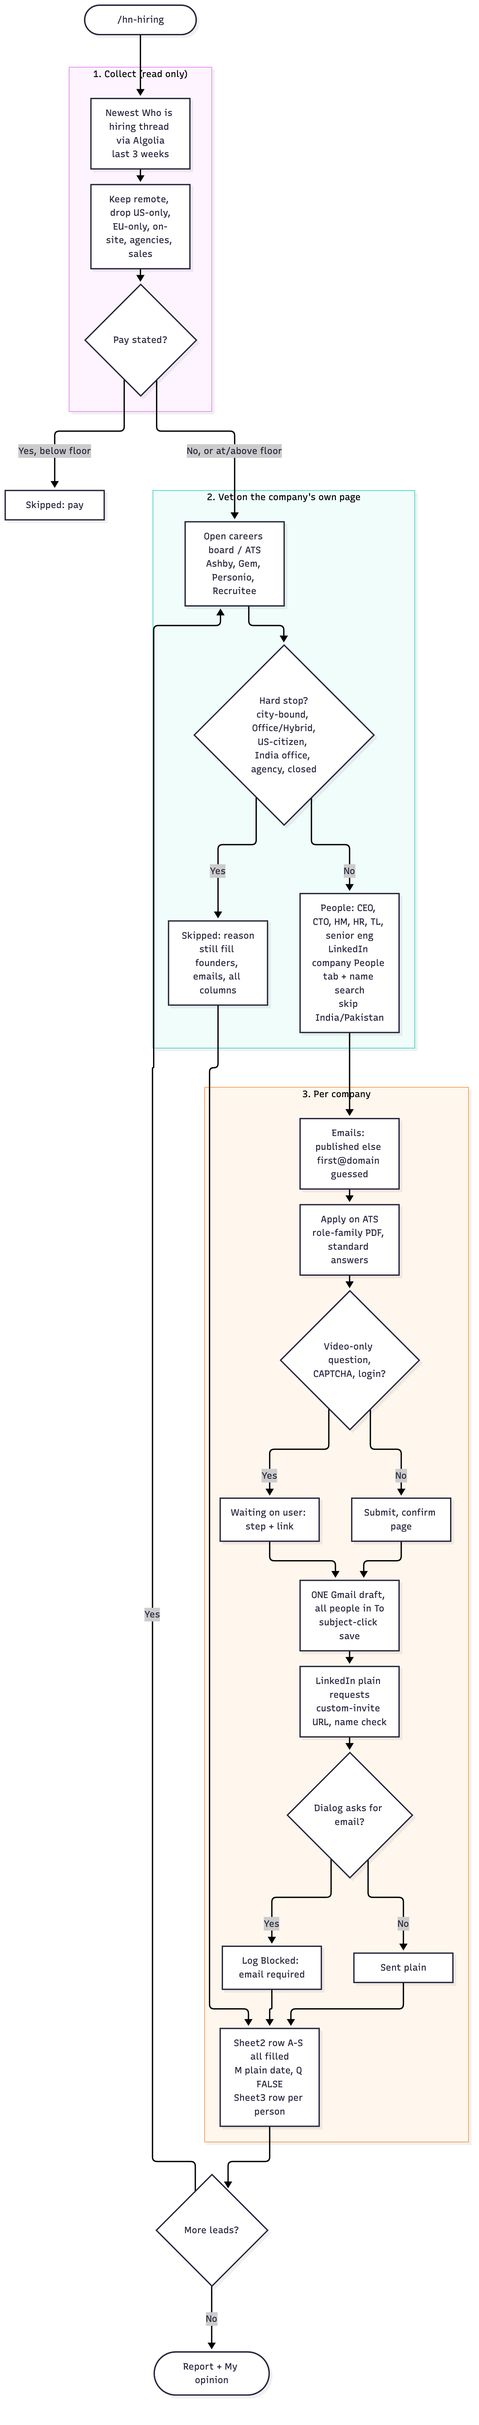
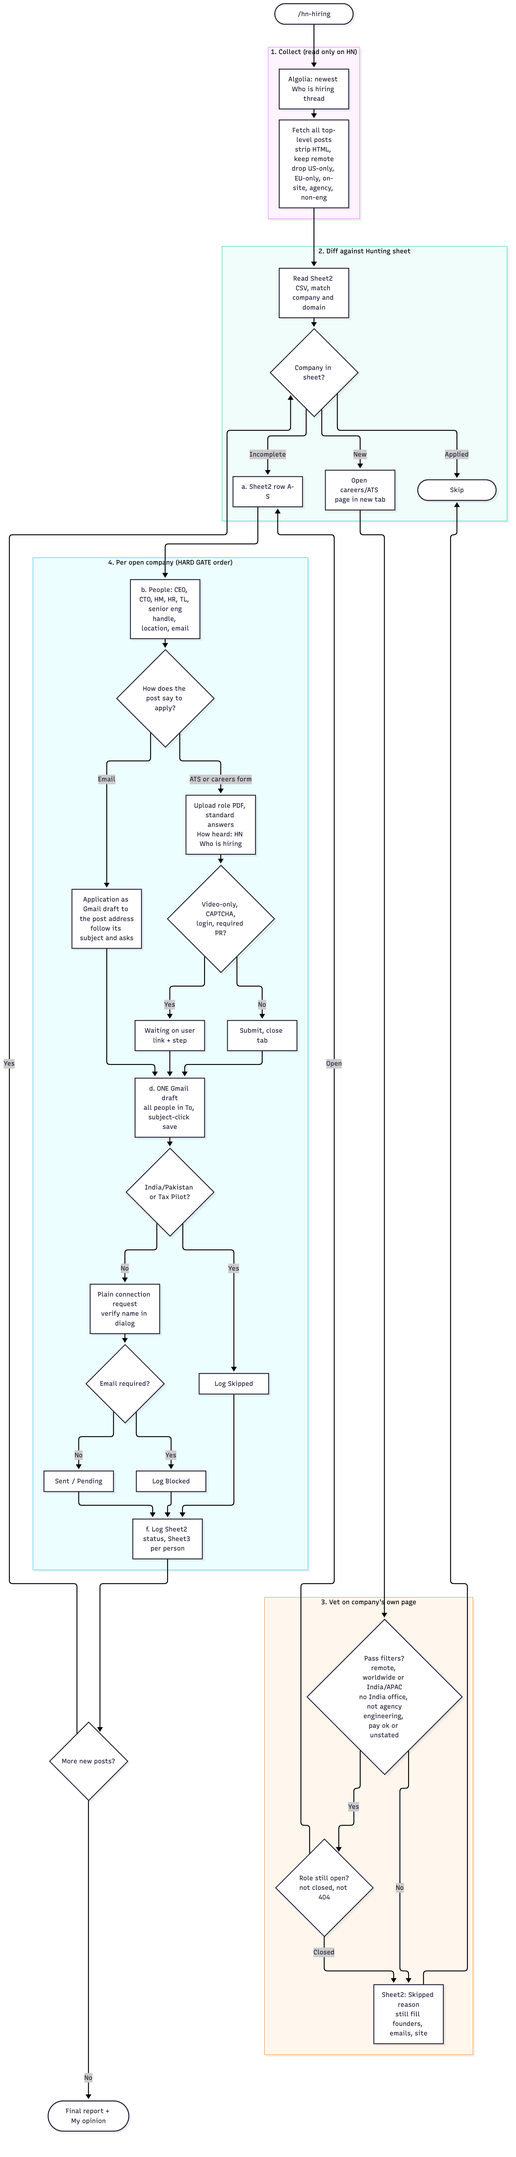
HN skill v3: restructure like yc-jobs, define every Sheet2/Sheet3 column, LinkedIn outreach, email safety, bot-check gates; README flow definition
Claude-Session: https://claude.ai/code/session_0136J2VcEN4nByAwo4xCbtUu

diff --git a/claude-commands/hn-hiring.md b/claude-commands/hn-hiring.md
@@ -1,47 +1,73 @@
 ---
-description: Find leads from Hacker News "Ask HN: Who is hiring?" (last 3 weeks by default), show details, then reach the posters by email first, HN reply second, ATS form third, LinkedIn last. Gmail drafts only.
-argument-hint: [weeks back, default 3] [month thread, default latest] [company names to take through the full flow]
+description: HN job flow. Start from the newest "Ask HN: Who is hiring?" thread, diff every post against the Hunting sheet, vet only the NEW ones on the company's own page, then apply there, log the sheet row (A-S), make ONE Gmail draft, and do LinkedIn outreach to CEO, CTO, HM, HR and TL. One company at a time, no stopping until the list is done.
+argument-hint: [optional: max new companies this run, default all] [month thread, default newest]
 ---
 
-Read `CLAUDE.md` first (job filter, size cap 200, contacts rules, Gmail safety, sheet columns). Input: $ARGUMENTS.
+Read `CLAUDE.md` first (it holds every rule; this skill only sequences them). Input: $ARGUMENTS. Same shape as `/yc-jobs`; only the source differs.
 
-## 1. Find the posts (read only)
-1. Thread list: https://news.ycombinator.com/submitted?id=whoishiring (take the newest "Who is hiring?", not "Who wants to be hired?"). Also scan the previous month when the window crosses a month.
-2. Data: in an HN tab run `fetch('https://hn.algolia.com/api/v1/items/<thread id>')` (Algolia has every live top-level comment; the Firebase API returns the same posts, dead ones 404). Keep top-level comments with `created_at` inside the window (default 3 weeks), strip HTML.
-3. Filter: contains "remote"; drop US-only, US/Canada-only, EU/UK/LATAM-only, on-site/hybrid-only, India-based companies, agencies, commission-only, non-engineering (GTM, sales, iOS-only). Keep worldwide/anywhere/global/India/APAC/APJ and Asian-friendly time zones; flag time-zone-limited (AMER/EMEA) and "select countries" for a check.
-4. Apply the sheet rules: all engineer levels for HN leads (CLAUDE.md 2026-10-27; the 2026-10-24 senior-only rule does not apply here), size 1-200 (flag if unclear), pay floor (flag if unlisted), match >= 30%. Dedupe by company domain (column H) and job link (column A).
-5. Show me a table per lead: company, role, posted date, region wording, pay, contact (email, ATS link, HN author, named people with LinkedIn), why it fits, flags. Posts just outside the window go in a short separate list.
+## Start page (always)
+https://news.ycombinator.com/submitted?id=whoishiring (newest "Who is hiring?", never "Who wants to be hired?"). READ ONLY on HN: never reply or post from the user's account unless asked.
 
-## 2. Where to reach them (order of preference, user 2026-10-26)
-1. **Email the contact in the post.** HN posters expect applications by email. Use the address and subject line the post asks for (for example "HN - Applied ML"). If there is no email, find the founder or hiring lead through the company site, GitHub org, HN profile "about", and LinkedIn; real verified name + real domain -> `firstname@domain` marked "(guessed)". One combined email per company, all people in To, never Cc. Gmail is DRAFT-ONLY: follow the Gmail safety rules (compose URL, screenshot to verify To/Subject/body, Escape only, verify in Drafts; never click or type in the compose window).
-2. **Reply under their HN comment** (two short lines: applied by email and one specific fit line). Only from the user's own HN account; ask once whether they want it.
-3. **Company ATS or careers form** if the post links one (Ashby, Greenhouse, Lever). Fill and submit only through the normal UI after vetting; hold for phone, visa, salary history, essays, CAPTCHAs (see External company applications rule).
-4. **LinkedIn last**: a connection request (no note by default) plus comments on the founder's recent own posts, only after the daily comment limit has reset and after verifying earlier comments posted. Never LinkedIn Jobs.
+## 1. Collect the list
+1. Find the thread id: in a tab on `hn.algolia.com`, fetch `/api/v1/search_by_date?tags=story,author_whoishiring&hitsPerPage=4`.
+2. Fetch `/api/v1/items/<thread id>` (all live top-level comments). Strip HTML. Keep posts that say "remote". Drop at once: `REMOTE (US)`, US/Canada-only, EU/UK/LATAM-only, on-site/hybrid, agencies, commission-only, non-engineering (GTM, sales, PM, design, marketing).
+3. Tool note: the JS tool blocks output with URLs/query strings and truncates near 600 chars. Replace URLs with `[url]`, print 8-12 lines at a time, and pull contact emails with a regex.
+4. Record per post: company, role, pay, region wording, contact (email/ATS link), HN comment id, author.
 
-## 3. Message style
-Human /cold v2 style from CLAUDE.md: `TL;DR:` line, `Hi <first name or team>,`, three short paragraphs (applying + where I saw it on Hacker News "Who is hiring?", who I am: most recently SDE II at Atlassian plus AI engineer on early teams, why I fit using the post's own stack words), quick links (2 project links, ONE matching resume link, GitHub), one-line ask, Best / Rahul Jha / LinkedIn. No numbers, no India mention, no admiring-the-company lines. A stack gap is stated as "ramping up on <X>". Subject: `<Exact role> - <Company> | Rahul Jha, Atlassian engineer`. If the post asks for specifics (GitHub, a project, a subject line), follow it exactly.
+## 2. Diff against the Hunting sheet
+Read Sheet2 as gviz CSV (`gid=1578269214`, fetch from the Sheets tab) and match company names/domains. Buckets: already in sheet (finish incomplete rows; Applied rows are skipped), new. State counts first: posts, remote, passing the geo filter, in sheet, new.
 
-## 4. Log and finish
-Per company, in this order: vet, find people, fill the Hunting sheet row (all columns A-N per the HARD GATE: people with LinkedIn, emails, company LinkedIn, website, job link `https://news.ycombinator.com/item?id=<comment id>`, follow-up +5 days, Added By `hn-hiring`, status), then the single Gmail draft, then update column N (`Drafted <date>`). One company at a time, never in parallel. Do not apply or draft before the row is complete.
+## 3. Vet each new company (one at a time)
+Open the company's own careers page / ATS posting in a NEW tab. Pass if: remote and worldwide/India/APAC, or 3+ countries; no India office; not an agency; engineering role (all levels allowed for HN); pay top at or above about $35k or not stated (no pay is NOT a drop); size cap lifted (log size). Verify the role is still OPEN (apply page loads, not "applications closed", not 404). Hard stops (log `Skipped: <reason>`): city-bound/office/hybrid, US citizen/work authorization, India office, agency, closed, non-engineering. Not stops: US/Berlin hours, size, pay unknown, Rust/Go/PHP gaps (say "ramping up"), 10+ years asked. AI-titled roles go to the backlog while that rule stands. A skipped row still gets founder names, emails, website (CLAUDE.md "Skipped companies still get emails and people").
 
-## 5. Report
-Counts (posts in window, remote, passing, skipped by reason), the lead table, which channel was used per lead, drafts created, what is on hold and why, next steps.
+## 3b. Hunting sheet: every column defined (never blank, never "n/a")
+Read the header row first and write by header name. Next free row: read `&range=A<n>:A<n+3>` of the gviz CSV for the last filled row (a line count is unreliable); paste a TSV via pbcopy, navigate to `...gid=<gid>&range=A<row>`, wait 6 s, cmd+v, then read the rows back to verify.
 
-## 3. Target and definition of done (user, 2026-10-27)
-- **Target: at least 50 qualifying HN postings** (distinct companies) worked through, not just found. Tracked in `hn_leads_ledger.md` (one line per post: `thread | comment id | company | role | status | reason`).
-- **Qualifying posting** = passes section 1 filters (remote, India/worldwide/APAC-open, senior-level, size <= 200, not India-based, not an agency) and is still open (company page or ATS confirms it; a stale or paused hiring page is REJECTED).
-- **Worked through** = one of: `APPLIED` (form submitted or email sent with the user's authorization), `DRAFTED` (email text ready in `hn_drafts.md` or Gmail), `REJECTED <first failed rule>`, `HOLD <what the user must answer>`. The 50 counts QUALIFYING posts with status APPLIED, DRAFTED or HOLD; rejected ones do not count.
-- **Scope to reach 50:** newest thread first, then walk back month by month (Sep, Aug, Jul, Jun, May 2026 ... until 50 qualify). The 2026-10-26 scan of May-Oct (1,626 posts -> 133 remote+geo+role -> 48 senior-level companies) is the starting pool; re-vet them against the live page, since many are old.
-- Each qualifying lead gets the full flow one at a time: vet, sheet row with people/emails (HARD GATE), contact channel in order of section 2, status written to the ledger and column N. Progress line in every report: `HN qualifying: n/50 (applied a, drafted d, hold h; rejected r)`.
-- Emails are sent only when the user authorizes a named batch; until then status is DRAFTED.
+**Sheet2 (gid 1578269214), columns A to S**
+| Col | Header | What goes in it |
+|---|---|---|
+| A | Links | The job link: the company ATS/apply URL, else the HN comment `https://news.ycombinator.com/item?id=<id>` |
+| B | Email 1 | Primary email: the post's published address first, else `first@<real domain>` marked `(guessed)` / `(published)` |
+| C | Email 2 | Next person's email, same marking |
+| D | Email 3 and more | All other emails, ` | ` separated; if none: `not found (checked: post, site)` |
+| E | Linkedin Profiles | `Name (role): <linkedin.com/in/handle>` for every persona, ` | ` separated, in the same order as B/C/D; missing roles written `CEO: not found (checked: <sources>)` |
+| F | Company Linkedin | `https://www.linkedin.com/company/<slug>/`; `not found (checked: ...)` if absent |
+| G | Open Source | `none found (GitHub search paused)` while paused |
+| H | Companies Website | Real domain from the company's own site |
+| I | External Carier Portal to Apply | The real ATS/careers apply URL, or `none found (checked: site, post email)` |
+| J | Linkedin | Outreach status in one line: company followed, who got a plain request, who was Blocked, comments posted or the skip reason, date |
+| K | Response Recived | `none yet` until a human reply |
+| L | Followup Count | `0` |
+| M | Followup Date | Plain `YYYY-MM-DD`, application date +5 days (re-check date +30 for skipped rows); the column rejects text |
+| N | Added By | `hn-hiring` |
+| O | Application Status | One of: `Found`, `Drafted <date>`, `Applied <date> (<ATS>)` (+ ` + drafted`), `Emailed <date>`, `Waiting on user: <what> at <url>`, `Hold: <reason>`, `Skipped: <reason>`, then free-text detail (role, region, pay, gaps) |
+| P | Email Sent | `not sent`, or `Sent <date> <time>` |
+| Q | Email Failed | Checkbox: paste `FALSE` |
+| R | Stage | `Not sent`, `Applied`, `Sent`, `Skipped`, `Replied: ...`, `Interview` ... (CLAUDE.md stage list) |
+| S | Stage date | Plain date of the stage |
 
-## 6. Full flow for leads with NO pay stated (user, 2026-11-07)
-Rule: when an HN post does not mention pay, do not drop or hold it for pay. Apply, draft, reach people on LinkedIn, log the sheet row with ALL columns, and record ALL personas. Pay shown and below the floor still fails; pay shown and at or above ~$35k follows the same flow.
-1. **Vet on the company's own page, not just the post** (the post often says "remote" while the careers board says Office/Hybrid or city-bound). Check the ATS (Ashby API `api.ashbyhq.com/posting-api/job-board/<slug>`, Gem, Greenhouse, Lever, Personio, Recruitee, company /careers). Hard stops: city-bound or Office/Hybrid-only, US citizen/work authorization, India office, agency, closed. Log `Skipped: <reason>` and still fill the row (founder, emails, website, careers link). Not stops: Berlin/US-hours overlap, size, pay unknown, PHP/Rust/Go gaps (say "ramping up"), "Berlin/Remote" labelled Hybrid on the ATS (flag the conflict).
-2. **Apply** on that ATS with the matching role-family PDF (Full Stack for TypeScript/React, Infra for backend/Go/platform), standard answers ($60,000 USD, "available to start soon", Maharashtra/Mumbai, Not authorized to work in the US is not asked unless required). Truthful free text, no numbers, gaps are "ramping up". "How did you hear": Hacker News "Who is hiring? (<month>)". A video-only required question, CAPTCHA or login is the only stop: mark `Waiting on user: <what> at <url>` and continue.
-3. **People, every persona that exists:** CEO/founders, CTO, hiring manager, HR/recruiter/talent, team lead, senior engineer. Get them from the LinkedIn company People tab (`/company/<slug>/people/`, scroll once) and name searches `/search/results/people/?keywords=<name> <company>` (profiles only). Record name, role, handle, location. Skip India/Pakistan locations. Emails: published first (post, careers page), else `first@<real domain>` marked "(guessed)".
-4. **ONE Gmail draft** per company, everyone in To, v2 human style, subject `<Exact role> - <Company> | Rahul Jha, Atlassian engineer`, saved by the subject-click method (compose URL, wait 8 s, click subject at about x=1000,y=86, type ONE space, wait 20 s, navigate away). Verify in Drafts. Never near Send.
-5. **LinkedIn**: plain connection request via `https://www.linkedin.com/preload/custom-invite/?vanityName=<handle>`, JS-verify the dialog names the person, then click "Send without a note". If the dialog asks for an email, log `Blocked: email required to connect`. Empty dialog usually means already connected/pending. Comments (4-5 lines on a quiet post, 30 or fewer reactions) only when the user asks for them in that run.
-6. **Sheet2 row, ALL columns A-S** (no blanks, no "n/a"): A HN comment link `https://news.ycombinator.com/item?id=<id>` or the ATS link, B/C/D emails, E all personas as `Name (role): <linkedin url>`, F company LinkedIn (`(unverified)` if auto-created), G `none found (GitHub search paused)`, H website, I careers/apply link, J LinkedIn status, K `none yet`, L 0, M date +5 days (plain `YYYY-MM-DD`; the column rejects text), N `hn-hiring`, O status, P `not sent`, Q `FALSE` (checkbox), R stage, S date. **Sheet3**: one row per person (A handle, B company - name (role), C date, D comments, E connection result, F notes). Next free rows: read the gviz CSV length and add 3 to the Sheet2 row index (blank middle rows are dropped).
-7. **Gotchas learned**: Recruitee's phone box needs `<PHONE>` typed into the number field so the country flips to India; the file input is set with the upload tool, never by clicking; Personio needs the form's `name` fields set with native setters; Ashby radio/textarea fields respond to native setters plus a real click on Submit.
+**Sheet3 (gid 954465790), one row per person, columns A to F**: A LinkedIn handle (after `/in/`), B `<Company> - <Name> (<role>)`, C date, D comments (`1 comment (<post>)`, `none (no posts)`, `none (posts above reaction cap)`, `none (not requested)`), E connection result (`Sent plain`, `Sent with note`, `Pending`, `Blocked: email required`, `Skipped: India`), F notes (`followed profile`, `out of free notes`). Next free row found the same way as Sheet2.
+
+## 4. Per OPEN company, in this order (HARD GATE)
+a. Sheet2 row (status `Found`). b. People, every persona that exists: CEO/founders, CTO, hiring manager, HR/recruiter, team lead, senior engineer (LinkedIn `/company/<slug>/people/` and `/search/results/people/?keywords=<name> <company>`; skip India/Pakistan; emails published first else `first@domain` "(guessed)"). c. Apply through the channel the post names, in this order: (1) the company ATS/careers form (Ashby, Greenhouse, Lever, Personio, Recruitee, own page) with the matching role-family PDF, standard answers, truthful free text; "How did you hear": Hacker News "Who is hiring? (<month>)"; (2) if the post says apply by email, that email is the apply step: write the application as a Gmail draft to that address (follow the post's subject line and asks, e.g. GitHub link or a PR); sending needs a named authorization. d. ONE Gmail draft, everyone in To, v2 style, subject `<Exact role> - <Company> | Rahul Jha, Atlassian engineer`, saved by the subject-click method. e. LinkedIn: plain request via `https://www.linkedin.com/preload/custom-invite/?vanityName=<handle>` (verify the name, "Send without a note"; "email required" = `Blocked`; empty dialog = already connected/pending). Comments only when asked. f. Log Sheet2 status, Sheet3 rows.
+Stops: video-only question, CAPTCHA, login, a required PR/take-home, a typed-phrase gate. Mark `Waiting on user: <what> at <url>` and continue.
+
+## 4c. LinkedIn outreach (every application, learned 2026-11-08)
+Order per company: (1) open `linkedin.com/company/<slug>/` (find the slug via `/search/results/companies/?keywords=<name>`) and JS-click the first button whose text is `Follow`. (2) People: `/company/<slug>/people/` (the keyword filter in the URL does not apply; scan the list) and name searches `/search/results/people/?keywords=<name> <company>`. Pick CEO/founder, CTO or head of engineering, hiring manager (VP/Director/Head of the team), team lead, senior engineer, recruiter. Skip India/Pakistan profiles and Tax Pilot; the 5,000-follower cap does not apply to job outreach. (3) Request: `https://www.linkedin.com/preload/custom-invite/?vanityName=<handle>`; JS-check the dialog names the person; if "Add a note" works, add a note of at most 200 characters (role applied for, one real fit line); if the dialog says "You're out of free custom notes", click `Send without a note`; if it asks for the person's email, log `Blocked: email required` and click Follow on their profile instead. (4) Plain request also gets one comment (4 to 5 lines: who I am, the exact role applied for, one real fit line, no numbers, no India, no contact details) on a recent post with 30 or fewer reactions+comments, else the quietest relevant hiring post; skip with a logged reason when the person has no posts or every post is huge. Open `/in/<handle>/recent-activity/all/`, click the comment icon, click the box, type, screenshot, click the blue Comment button, confirm the comment shows under your name. (5) Verify every request in `/mynetwork/invitation-manager/sent/`. (6) Log Sheet3 and column J.
+
+## 4d. Email (draft only)
+One email per company, everyone in To, never Cc, v2 style, subject `<Exact role> - <Company> | Rahul Jha, Atlassian engineer`, plus the post's own subject line and asks when it gives them (a post that says apply by email makes the draft the application). Safety, after the fourth accidental send on 2026-11-08 (ArtCraft email went out while saving): open the compose URL by navigating the Gmail tab, never by script `location.href`; take a screenshot to confirm the tab id, To, Subject and body before any click; save with the subject-click method only when the layout matches (subject about x=1000, y=86); after saving, check that the Drafts count rose and Sent gained no row; if a Sent row appears, tell the user at once and log `Emailed <date> (sent by accident)`. If no safe method is available, hand the draft text to the user instead of saving. Sending needs a named authorization.
+
+## 4e. Bot-check gates
+A page that tells applicants to type a phrase ("I am not a robot"), a CAPTCHA or Cloudflare challenge is the user's step. Fill everything else, leave the tab open on the form, mark `Waiting on user`, continue, and log `Applied` only after the confirmation page shows.
+
+## 5. Rules of the run
+One company at a time, no parallel agents, no new .md/.csv/.json files, browser only. Never stop between companies and no status reports until the end or a hard stop. Gotchas: Recruitee phone box needs `<PHONE>` typed; file inputs use the upload tool; Personio needs native setters; Ashby needs native setters plus a real Submit click; Gmail save never near Send.
+
+## 5b. Daily refresh
+HN posts one thread a month (first business days) and posts keep arriving for ~3 weeks, so run `/hn-hiring` weekly in the first month-weeks and monthly after. The sheet diff makes each run incremental. Order: (1) reconcile Gmail Sent/bounces; (2) finish incomplete rows and `Waiting on user`; (3) sections 1-4 on the new posts; (4) final report. Repeat: `/loop 24h /hn-hiring`; unattended: `/schedule` a routine with the prompt `/hn-hiring`. Older months: `/hn-monthly <month>`.
+
+## 6. Final report (once)
+Counts: posts, remote, passing geo, in sheet, new, rejected (reasons), applied, drafted, LinkedIn requests (sent/pending/blocked), HOLD list with the exact user step. End with "My opinion:" (one or two lines).
+
 Diagram: `Commands/Flow Diagram/hn-jobs-flow.md` (and `.mmd`, `.png`).

diff --git a/Flow Diagram/hn-jobs-flow.md b/Flow Diagram/hn-jobs-flow.md
@@ -1,61 +1,77 @@
 # HN Jobs Flow (skill: `/hn-hiring`)
 
-Source skill: `.claude/commands/hn-hiring.md` (section 6 holds this flow). This file is the readable copy plus the diagram. Keep both in sync.
+Source skill: `.claude/commands/hn-hiring.md` (same layout as `/yc-jobs`). This file is the readable copy plus the flow diagram.
 
-Start: newest "Ask HN: Who is hiring?" thread (https://news.ycombinator.com/submitted?id=whoishiring), read via the Algolia API (`hn.algolia.com/api/v1/items/<thread id>`). Read only on HN.
+Start page (read only): https://news.ycombinator.com/submitted?id=whoishiring
 
-## Diagram
+## Diagram v2: end-to-end flow
 
 ```mermaid
 flowchart TD
-    START([/hn-hiring]) --> A1
-    subgraph COLLECT["1. Collect (read only)"]
-        A1[Newest Who is hiring thread via Algolia<br/>last 3 weeks] --> A2[Keep remote, drop US-only,<br/>EU-only, on-site, agencies, sales]
-        A2 --> A3{Pay stated?}
+    START([/hn-hiring]) --> L1
+
+    subgraph COLLECT["1. Collect (read only on HN)"]
+        L1[Algolia: newest Who is hiring thread] --> L2[Fetch all top-level posts<br/>strip HTML, keep remote<br/>drop US-only, EU-only, on-site, agency, non-eng]
     end
-    A3 -- "Yes, below floor" --> REJ[Skipped: pay]
-    A3 -- "No, or at/above floor" --> V1
-    subgraph VET["2. Vet on the company's own page"]
-        V1[Open careers board / ATS<br/>Ashby, Gem, Personio, Recruitee] --> V2{Hard stop?<br/>city-bound, Office/Hybrid,<br/>US-citizen, India office, agency, closed}
-        V2 -- Yes --> SK[Skipped: reason<br/>still fill founders, emails, all columns]
-        V2 -- No --> P1
+
+    subgraph DIFF["2. Diff against Hunting sheet"]
+        L2 --> D1[Read Sheet2 CSV, match company and domain]
+        D1 --> D2{Company in sheet?}
+        D2 -- Applied --> SKIP([Skip])
+        D2 -- Incomplete --> ROW
+        D2 -- New --> V1
     end
-    subgraph WORK["3. Per company"]
-        P1[People: CEO, CTO, HM, HR, TL, senior eng<br/>LinkedIn company People tab + name search<br/>skip India/Pakistan] --> E1[Emails: published else first@domain guessed]
-        E1 --> AP[Apply on ATS<br/>role-family PDF, standard answers]
-        AP --> G{Video-only question,<br/>CAPTCHA, login?}
-        G -- Yes --> W[Waiting on user: step + link]
-        G -- No --> S[Submit, confirm page]
-        W --> D
-        S --> D
-        D[ONE Gmail draft, all people in To<br/>subject-click save] --> L[LinkedIn plain requests<br/>custom-invite URL, name check]
-        L --> L2{Dialog asks for email?}
-        L2 -- Yes --> B[Log Blocked: email required]
-        L2 -- No --> OK[Sent plain]
-        B --> LOG
+
+    subgraph VET["3. Vet on company's own page"]
+        V1[Open careers/ATS page in new tab] --> V2{Pass filters?<br/>remote, worldwide or India/APAC<br/>no India office, not agency<br/>engineering, pay ok or unstated}
+        V2 -- No --> REJ[Sheet2: Skipped reason<br/>still fill founders, emails, site] --> SKIP
+        V2 -- Yes --> V3{Role still open?<br/>not closed, not 404}
+        V3 -- Closed --> REJ
+        V3 -- Open --> ROW
+    end
+
+    subgraph WORK["4. Per open company (HARD GATE order)"]
+        ROW[a. Sheet2 row A-S] --> PPL[b. People: CEO, CTO, HM, HR, TL, senior eng<br/>handle, location, email]
+        PPL --> CH{How does the post say to apply?}
+        CH -- ATS or careers form --> FILL[Upload role PDF, standard answers<br/>How heard: HN Who is hiring]
+        CH -- Email --> EM[Application as Gmail draft to the post address<br/>follow its subject and asks]
+        FILL --> GATE{Video-only, CAPTCHA,<br/>login, required PR?}
+        GATE -- Yes --> WAIT[Waiting on user<br/>link + step]
+        GATE -- No --> SUB[Submit, close tab]
+        SUB --> DR
+        WAIT --> DR
+        EM --> DR
+        DR[d. ONE Gmail draft<br/>all people in To, subject-click save] --> LI
+        LI{India/Pakistan or Tax Pilot?}
+        LI -- Yes --> LSK[Log Skipped]
+        LI -- No --> LR[Plain connection request<br/>verify name in dialog]
+        LR --> LB{Email required?}
+        LB -- Yes --> BL[Log Blocked]
+        LB -- No --> OK[Sent / Pending]
+        LSK --> LOG
+        BL --> LOG
         OK --> LOG
-        LOG[Sheet2 row A-S all filled<br/>M plain date, Q FALSE<br/>Sheet3 row per person]
+        LOG[f. Log Sheet2 status, Sheet3 per person]
     end
-    SK --> LOG
-    LOG --> NEXT{More leads?}
-    NEXT -- Yes --> V1
-    NEXT -- No --> REP([Report + My opinion])
+
+    LOG --> MORE{More new posts?}
+    MORE -- Yes --> D2
+    MORE -- No --> REP([Final report + My opinion])
 ```
 
-PNG: `hn-jobs-flow.png`.
-
 ## Rules in one place
-- **No pay stated is not a reason to drop.** Apply, draft, reach people on LinkedIn, log the sheet row with every column, record every persona. Pay shown below the floor (~$35k top) still fails.
-- **Vet on the company's own page.** HN says "remote" but the ATS may say Office/Hybrid or city-bound (Namespace, Rootly were skipped for that). Hard stops: city-bound or hybrid-only, US-citizen/work-authorization, India office, agency, closed role. Log `Skipped: <reason>` and still fill founders, emails, website, careers link.
-- **Apply** on the company ATS (Personio, Ashby, Recruitee, Gem, Greenhouse, Lever) with the matching role-family PDF; standard answers ($60,000 USD, available to start soon, Maharashtra/Mumbai); free text written myself, truthful, no numbers, gaps are "ramping up". Only a video-only question, CAPTCHA or login stops it (`Waiting on user`).
-- **People:** CEO/founders, CTO, hiring manager, HR/recruiter, team lead, senior engineer, from the LinkedIn company People tab and name searches. Skip India/Pakistan. Emails published first, else `first@domain` (guessed).
-- **One Gmail draft per company**, everyone in To, subject `<Role> - <Company> | Rahul Jha, Atlassian engineer`, saved by clicking the subject, typing one space and waiting 20 s. Never near Send.
-- **LinkedIn:** plain request through the custom-invite URL with a dialog name check; "email required" is logged as Blocked.
-- **Sheet:** Sheet2 columns A to S all filled (M is a plain date, Q is the FALSE checkbox), Sheet3 one row per person.
+- Diff every post against Sheet2 first; only new posts and incomplete rows get work.
+- Vet on the company's own page; no pay stated is not a drop; closed, city-bound, India office, agency, non-engineering are.
+- Apply by the channel the post names: ATS form, or email (draft to the post's address). Stops: video-only, CAPTCHA, login, required PR.
+- One Gmail draft, plain LinkedIn requests, Sheet2 A-S and Sheet3 rows. One company at a time.
 
-## First run (2026-11-07, November 2026 thread)
-Eventfirst (applied, Personio), NetBird (applied, Ashby), Tether (waiting on a video answer), Eleshop (email-to-apply draft), Namespace and Rootly (skipped: not remote).
+## Columns, LinkedIn and email (v3)
+- **Sheet2 A to S** each have a defined meaning in the skill (section 3b): A link, B/C/D emails, E people with LinkedIn, F company LinkedIn, G open source, H website, I careers link, J LinkedIn status, K response, L follow-up count, M follow-up date, N added by, O status, P email sent, Q email failed, R stage, S stage date. Sheet3 has A to F per person.
+- **LinkedIn (4c):** follow the company page, request CEO/CTO/hiring manager/team lead/senior engineer plainly (note only if LinkedIn still offers one), comment on a quiet post, mark email-required invites `Blocked`, verify in the sent list.
+- **Email (4d):** one draft per company, everyone in To; open compose by navigation, screenshot first, check Drafts rose and Sent did not.
+- **Bot-check gates (4e):** typed-phrase and CAPTCHA steps are the user's; log Applied only after the confirmation page.
 
----
 ## Change log
-- v1 (2026-11-07): HN flow for leads with no pay stated.
+- v3 (2026-11-08): all Hunting sheet columns defined, LinkedIn outreach steps, email safety rules, bot-check gates.
+- v1 (2026-11-07): flow for leads with no pay stated.
+- v2 (2026-11-08): restructured like yc-jobs (collect, diff, vet, per-company gate, daily refresh); added the closed-role check and the email-apply branch.

diff --git a/README.md b/README.md
@@ -5,7 +5,7 @@ Claude Code skills and flow diagrams for a volume remote-job search (personal de
 ## Layout
 - `claude-commands/` slash commands (copy into your project's `.claude/commands/`): `yc-jobs.md`, `daily-jobs.md`, `cold.md`, `apply.md`, `tailor.md`, `jd.md` and more.
 - `skills/` resume and job-search skills (`skills/<name>/SKILL.md`).
-- `Flow Diagram/` HN jobs flow: `hn-jobs-flow.md`, `hn-jobs-flow.mmd`, `hn-jobs-flow.png` (skill `claude-commands/hn-hiring.md`, section 6). YC jobs flow: `yc-jobs-flow.md` (diagrams + applying rules), `yc-jobs-flow.mmd` (Mermaid source), `yc-jobs-flow.png` (rendered).
+- `Flow Diagram/` HN jobs flow: `hn-jobs-flow.md`, `hn-jobs-flow.mmd`, `hn-jobs-flow.png` (skill `claude-commands/hn-hiring.md`). YC jobs flow: `yc-jobs-flow.md` (diagrams + applying rules), `yc-jobs-flow.mmd` (Mermaid source), `yc-jobs-flow.png` (rendered).
 - `CLAUDE.md` the rules every run follows (fill `<PHONE>` / `<EMAIL>` with your own).
 
 ## YC jobs flow (`/yc-jobs`)
@@ -21,6 +21,18 @@ Start page: the Work at a Startup remote-engineering list, newest first (read on
 No CAPTCHA solving, no passwords or account creation, Gmail drafts only unless you authorize a named batch, never Apply or message on workatastartup.com, never LinkedIn Jobs.
 
 ## HN jobs flow (`/hn-hiring`)
-Newest "Who is hiring?" thread via Algolia (read only). Leads with no pay stated are not dropped: vet on the company's own ATS page, apply, find every persona, one Gmail draft, plain LinkedIn requests, and a sheet row with every column filled. See `Flow Diagram/hn-jobs-flow.png`.
+Same shape as the YC flow, different source: the newest "Ask HN: Who is hiring?" thread (read only). Skill: `claude-commands/hn-hiring.md`. Diagram: `Flow Diagram/hn-jobs-flow.png` (source `.mmd`, readable copy `.md`).
+
+**The flow, step by step**
+1. **Collect.** Algolia API gives the thread id and every top-level post. Keep "remote" posts; drop US/EU-only, on-site, agencies and non-engineering.
+2. **Diff** against the Hunting sheet (Sheet2). Applied rows are skipped; only new posts and incomplete rows get work.
+3. **Vet** each new company on its own careers/ATS page (remote, worldwide or India/APAC, no India office, still open). No pay stated is not a drop. Rejects are logged `Skipped: <reason>` and still get contacts.
+4. **Per open company, in order:** sheet row, people (CEO, CTO, hiring manager, HR, team lead, senior engineer), apply (ATS form, or email when the post says so), one Gmail draft, LinkedIn, log.
+5. **LinkedIn:** follow the company page; plain connection request to each person (a note only while free notes remain); one 4-5 line job comment on a quiet post; email-required invites logged `Blocked`; verify in the sent list.
+6. **Email:** one draft per company, everyone in To; draft only, never sent without a named authorization; check the Drafts count rose and Sent did not.
+7. **Stops:** typed-phrase/CAPTCHA gates, logins and required PRs are the user's step (`Waiting on user`); the run continues.
+
+**Hunting sheet columns (Sheet2 A-S, none blank):** A link, B/C/D emails, E people with LinkedIn, F company LinkedIn, G open source, H website, I careers link, J LinkedIn status, K response, L follow-up count, M follow-up date (plain `YYYY-MM-DD`), N added by, O status, P email sent, Q email failed (`FALSE`), R stage, S stage date. Sheet3 logs one row per person (handle, company - name (role), date, comments, connection result, notes).
+
 - Once: `/hn-hiring` (or `/hn-hiring 3 latest <company names>` to work named leads).
 - Daily: `/loop 24h /hn-hiring` or `/schedule` a routine with the prompt `/hn-hiring`.
